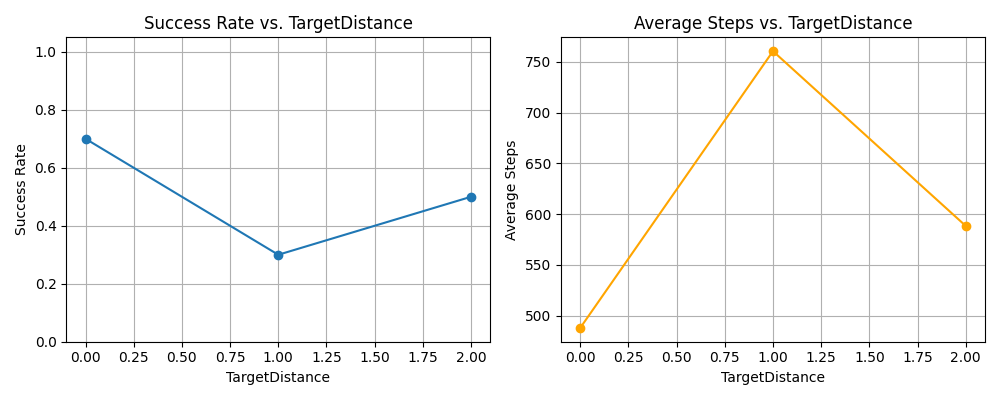
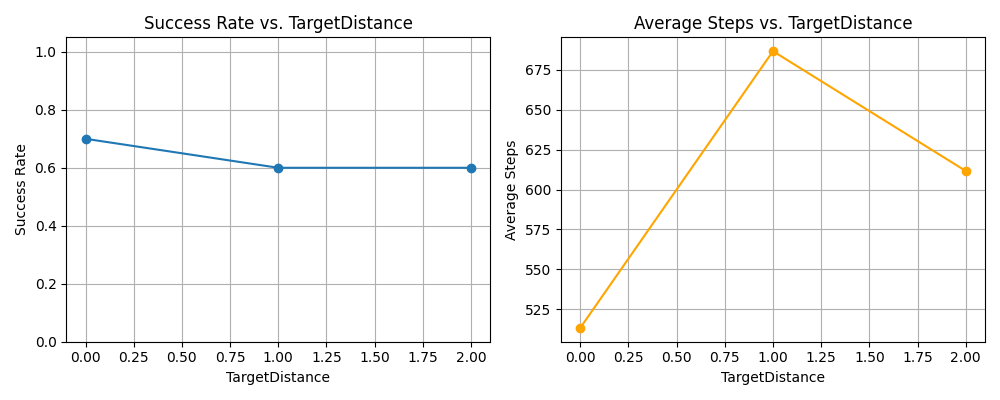
Changed the Target_distance Experiment

diff --git a/evaluate_trained_dqn_niek.py b/evaluate_trained_dqn_niek.py
@@ -8,6 +8,7 @@ from world.environment import Environment
 from tqdm import trange
 import numpy as np
 import argparse
+import random
 from world.utils.env_init import (
     create_delivery_zones,
 )
@@ -90,7 +91,9 @@ def experiment_target_distance(agent):
         ]
         '''
         env = Environment()
-        delivery_zones = create_delivery_zones(env.racks, env.width, env.height, margin=0.5 + i * 0.2)
+        zones = create_delivery_zones(env.racks, env.width, env.height, margin=0.5 + i * 0.1)
+        delivery_zones = random.sample(zones, 3)
+        print(f"level {i}: {delivery_zones}")
         successes = 0
         steps_record = []
         for _ in range(10):
@@ -140,12 +143,12 @@ def append_to_txt(title, x, success_rates, steps):
 def evaluate(model_path: Path):
     agent = DQNAgent.load(str(model_path), state_size=15, action_size=6)
     agent.epsilon = 0.0
-    experiment_stochasticity(agent)
+    #experiment_stochasticity(agent)
     print("Experiment Stochasticity Finished!")
-    experiment_difficulty(agent)
+    #experiment_difficulty(agent)
     print("Experiment Difficulty Finished!")
     experiment_target_distance(agent)
-    print("Experiment Target Distance Finished!!")
+    print("Experiment Target Distance Finished!")
 
 if __name__ == "__main__":
     p = argparse.ArgumentParser()
